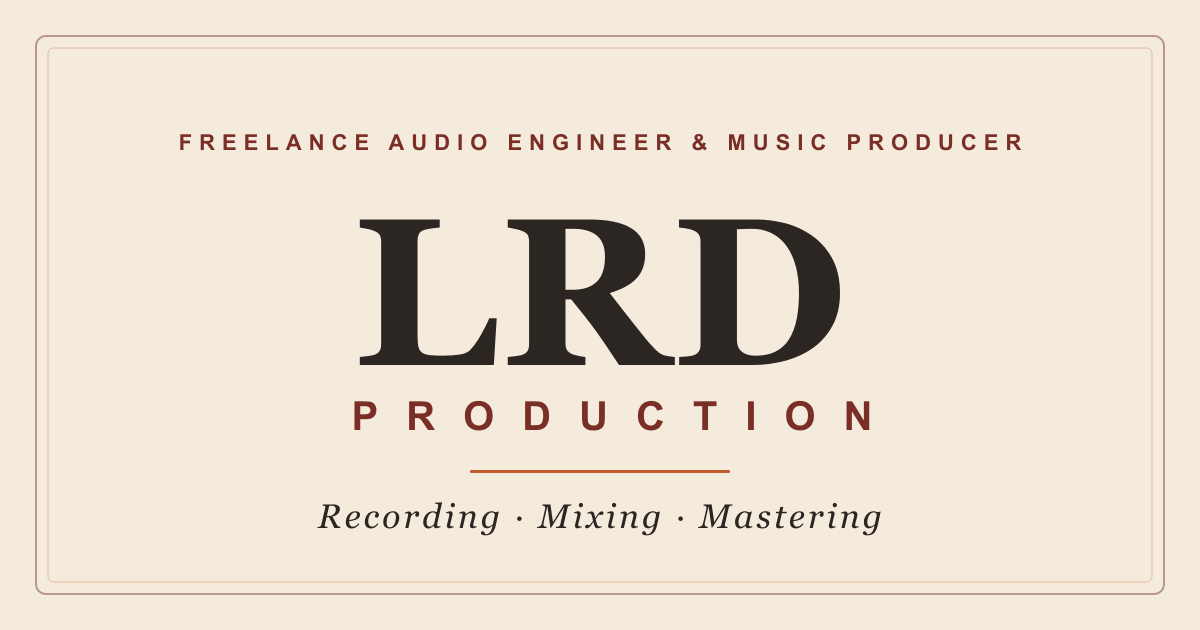
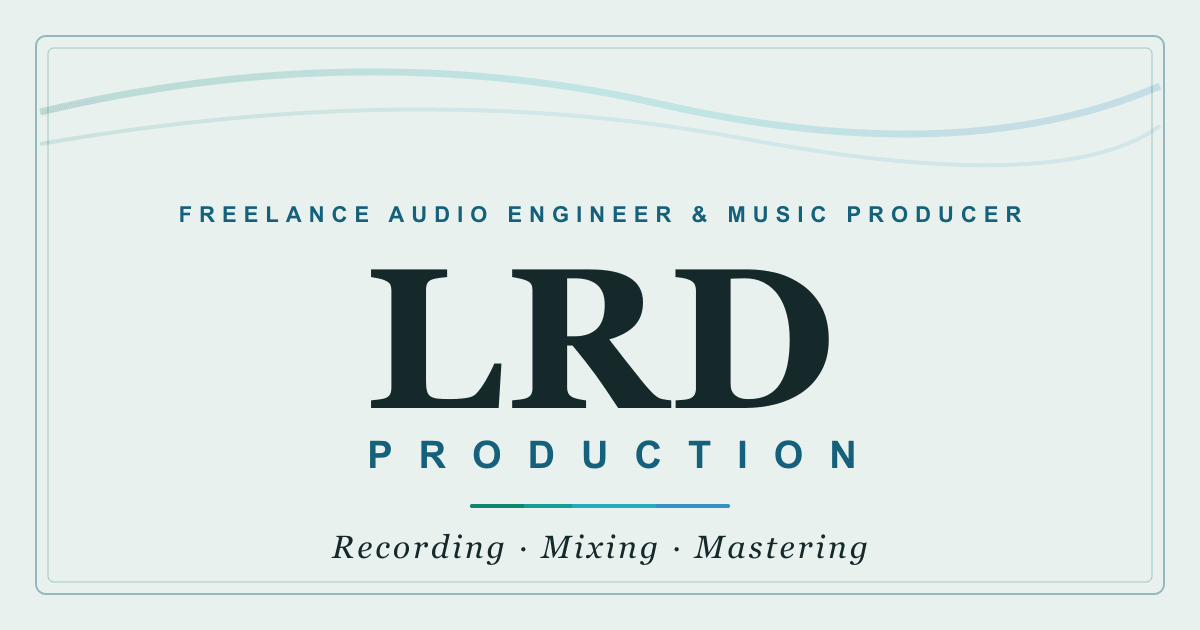
Recolor to aurora borealis (frost) palette
- Cool frost base with northern-lights accents: aurora-green primary,
  teal/cyan glow, deep-blue deep-accent, cool ink text, night-sky bands.
- Token-driven recolor (global.css @user) cascades across the site.
- Aurora flourishes: gradient hero waveform (green-teal-blue), soft
  aurora-glow wash in the hero, and a screening aurora glow on the dark
  CTA band (northern lights over night sky).
- Updated non-token spots: theme-color, mask-icon, SoundCloud player
  tint (now aurora green). Regenerated favicon + OG image in the new
  palette with an aurora gradient accent.

diff --git a/src/styles/global.css b/src/styles/global.css
@@ -6,14 +6,14 @@
  * Tokens below become Tailwind utilities (e.g. --color-burnt → bg-burnt)
  * ================================================================== */
 @theme {
-  /* Colors */
-  --color-paper: #f4ebdd; /* primary background */
-  --color-charcoal: #2b2622; /* primary text — never pure black */
-  --color-burnt: #c25a2b; /* primary accent / CTAs */
-  --color-amber: #e0922f; /* secondary accent / glow */
-  --color-oxblood: #7a2e25; /* deep accent / hovers */
-  --color-sand: #e7d9c3; /* surfaces / cards */
-  --color-ink: #201915; /* deepest brown-black, dark bands */
+  /* Colors — aurora borealis (frost): cool light base, green/teal/blue glow */
+  --color-paper: #e9f1ef; /* frost background */
+  --color-charcoal: #15292b; /* cool deep ink — primary text, never pure black */
+  --color-burnt: #0a7a57; /* aurora green — primary accent / CTAs / links */
+  --color-amber: #1fb6be; /* aurora teal/cyan — secondary accent / glow */
+  --color-oxblood: #15607a; /* deep aurora blue — deep accent / hovers */
+  --color-sand: #dce8e5; /* cool pale surfaces / cards */
+  --color-ink: #0b1f26; /* night-sky deep navy-teal — dark bands */
 
   /* Fonts */
   --font-display: "Fraunces", ui-serif, Georgia, "Times New Roman", serif;
@@ -379,4 +379,60 @@
   .scroll-cue svg {
     animation: scroll-bob 1.8s ease-in-out infinite;
   }
+}
+
+/* Aurora glow — soft northern-lights wash (decorative). On the frost
+   background it's a gentle tint; on dark bands it screens to a real glow. */
+.aurora-glow {
+  position: absolute;
+  inset: 0;
+  overflow: hidden;
+  pointer-events: none;
+}
+.aurora-glow::before {
+  content: "";
+  position: absolute;
+  left: 50%;
+  top: -12%;
+  width: 130%;
+  height: 72%;
+  transform: translateX(-50%);
+  background:
+    radial-gradient(
+      38% 60% at 26% 30%,
+      rgba(10, 122, 87, 0.22),
+      transparent 70%
+    ),
+    radial-gradient(
+      34% 55% at 60% 16%,
+      rgba(31, 182, 190, 0.2),
+      transparent 70%
+    ),
+    radial-gradient(
+      40% 60% at 84% 36%,
+      rgba(21, 96, 122, 0.18),
+      transparent 72%
+    );
+  filter: blur(30px);
+}
+.aurora-glow--dark::before {
+  height: 85%;
+  mix-blend-mode: screen;
+  filter: blur(36px);
+  background:
+    radial-gradient(
+      40% 70% at 24% 18%,
+      rgba(45, 222, 160, 0.28),
+      transparent 70%
+    ),
+    radial-gradient(
+      36% 60% at 58% 0%,
+      rgba(34, 211, 220, 0.24),
+      transparent 70%
+    ),
+    radial-gradient(
+      42% 70% at 86% 24%,
+      rgba(70, 150, 230, 0.22),
+      transparent 72%
+    );
 }

diff --git a/src/config.ts b/src/config.ts
@@ -71,8 +71,8 @@ export const FEATURED_TRACK_SLUG = "cirrus";
 /** Build a brand-tinted, lazy-friendly SoundCloud embed URL from a slug. */
 export function soundcloudEmbed(slug: string): string {
   const trackUrl = encodeURIComponent(`https://soundcloud.com/d4ed41us/${slug}`);
-  // color=%23C25A2B (burnt-orange), auto_play off, show artist, hide related
-  return `https://w.soundcloud.com/player/?url=${trackUrl}&color=%23C25A2B&auto_play=false&show_user=true&hide_related=true`;
+  // color=%230A7A57 (aurora green), auto_play off, show artist, hide related
+  return `https://w.soundcloud.com/player/?url=${trackUrl}&color=%230A7A57&auto_play=false&show_user=true&hide_related=true`;
 }
 
 /* ------------------------------------------------------------------ *